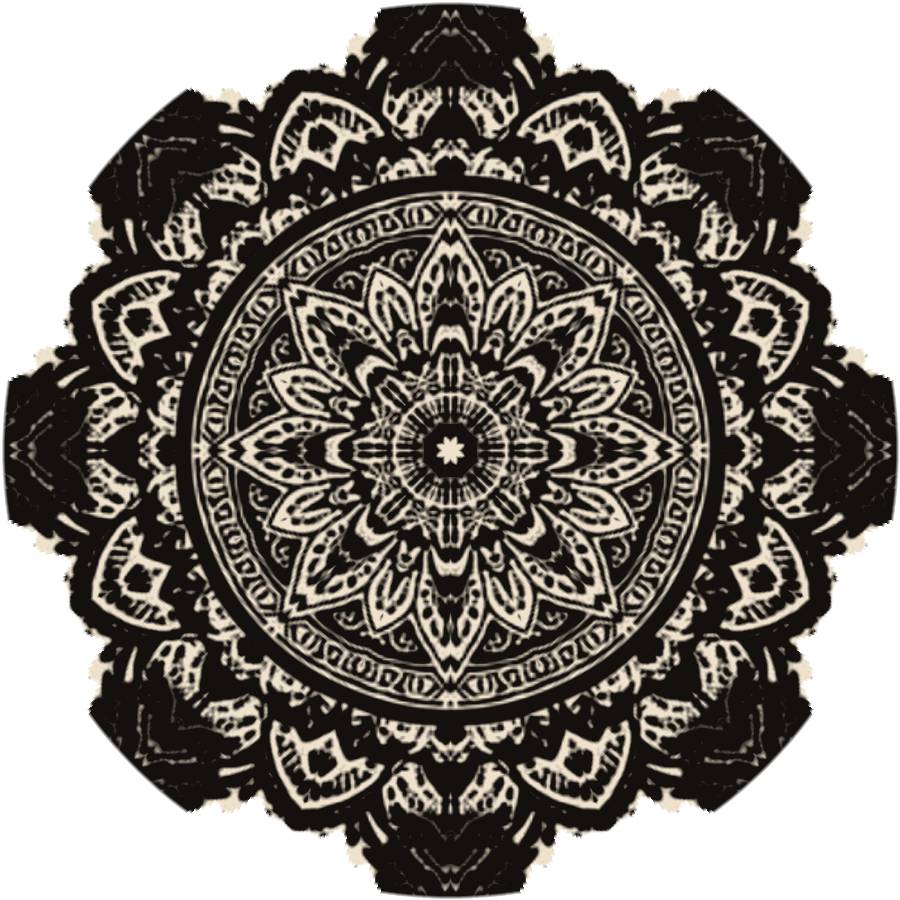
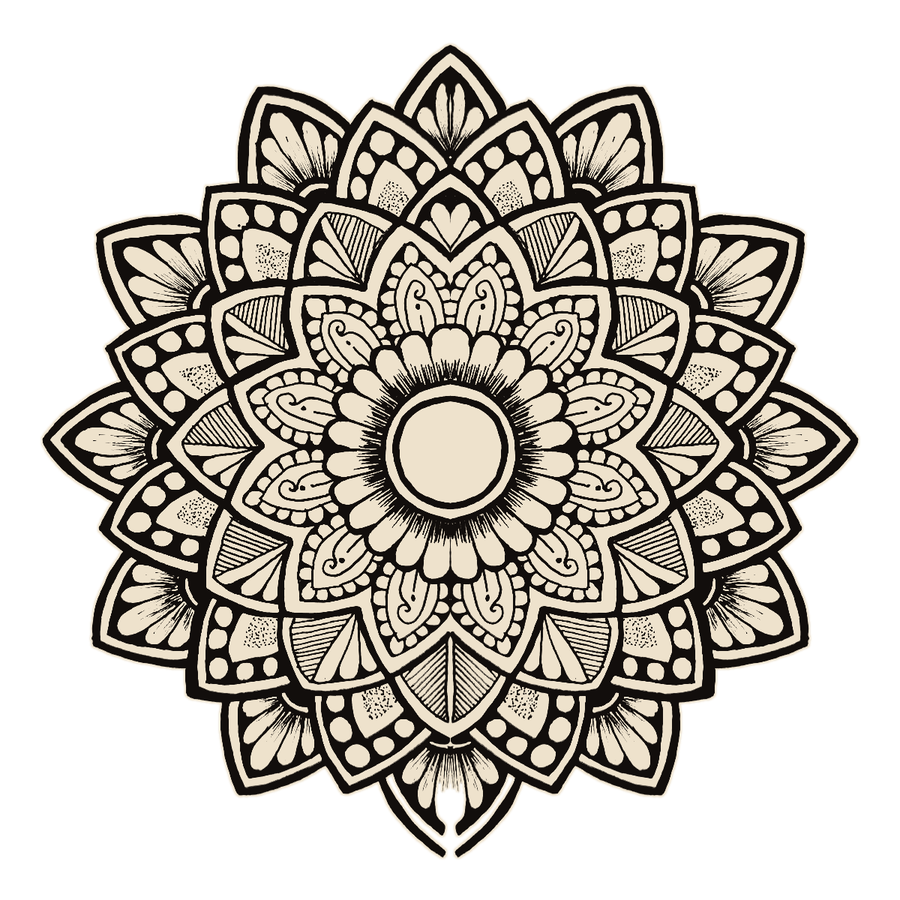
home page files added

diff --git a/index.html b/index.html
@@ -37,6 +37,7 @@
   .i-mandala{position:absolute;left:50%;top:50%;width:min(78vmin,640px);aspect-ratio:1;translate:-50% -50%;opacity:0;transform:scale(.15) rotate(-140deg);
     animation:bloom 1.1s 1.25s cubic-bezier(.16,1,.3,1) forwards,recede .8s 3.5s cubic-bezier(.6,0,.3,1) forwards}
   .i-mandala::before{content:"";position:absolute;inset:14%;border-radius:50%;background:radial-gradient(circle,#ff6a45 0,#e2412a 45%,rgba(226,65,42,0) 72%);filter:blur(30px);opacity:.75;animation:pulse 1.6s 1.3s ease-in-out infinite alternate}
+  .i-mandala::after{content:"";position:absolute;left:50%;top:50%;width:5.5%;aspect-ratio:1;translate:-50% -50%;border-radius:50%;background:#e2412a;box-shadow:0 0 18px 4px rgba(226,65,42,.8)}
   .i-mandala img{position:relative;width:100%;height:100%;animation:spin 40s linear infinite}
   @keyframes bloom{to{opacity:1;transform:scale(1) rotate(0deg)}}
   @keyframes recede{from{opacity:1;transform:scale(1)}to{opacity:.13;transform:scale(1.35)}}
@@ -118,13 +119,26 @@
   .hg-pulse path{fill:none;stroke:#ffc29e;stroke-width:2;stroke-linecap:round;animation:flow var(--dur) linear var(--delay) infinite}
   @keyframes flow{from{stroke-dashoffset:var(--from)}to{stroke-dashoffset:var(--to)}}
   .hg-core,.hg-door,.hg-beam{transform-box:fill-box;transform-origin:50% 100%}
-  .hg-core{animation:core 2.2s ease-in-out infinite alternate}
-  .hg-door{animation:door 2.2s ease-in-out infinite alternate}
-  .hg-beam{animation:beam 2.2s ease-in-out infinite alternate}
+  .hg-core{animation:core 4.4s ease-in-out infinite alternate}
+  .hg-door{animation:door 4.4s ease-in-out infinite alternate}
+  .hg-beam{animation:beam 4.4s ease-in-out infinite alternate}
   @keyframes core{from{opacity:.55;transform:scale(.85)}to{opacity:1;transform:scale(1.12)}}
   @keyframes door{from{opacity:.35}to{opacity:.9}}
   @keyframes beam{from{opacity:.15;transform:scaleY(.7)}to{opacity:.55;transform:scaleY(1)}}
   @media (prefers-reduced-motion:reduce){.hg-pulse path,.hg-core,.hg-door,.hg-beam{animation:none}}
+  /* 3D Konark chakra (replaces the painted wheel, bottom-left) */
+  .chakra{position:absolute;left:calc(63*var(--u));top:calc(211*var(--u));width:calc(204*var(--u));aspect-ratio:1;perspective:calc(650*var(--u));pointer-events:none}
+  .chakra::before{content:"";position:absolute;inset:3%;border-radius:50%;background:radial-gradient(circle,#0c0807 0 60%,rgba(12,8,7,.88) 68%,rgba(12,8,7,0) 75%)}
+  .chakra::after{content:"";position:absolute;inset:10%;border-radius:50%;box-shadow:0 0 calc(40*var(--u)) calc(6*var(--u)) rgba(226,65,42,.28);animation:chakraGlow 4.4s ease-in-out infinite alternate}
+  .chakra-tilt,.chakra-spin{position:absolute;inset:0;transform-style:preserve-3d}
+  .chakra-tilt{animation:chakraSway 9s ease-in-out infinite alternate}
+  .chakra-spin{animation:chakraTurn 28s linear infinite}
+  .chakra img{position:absolute;inset:0;width:100%;height:100%;backface-visibility:visible}
+  .chakra img.face{filter:drop-shadow(0 0 calc(5*var(--u)) rgba(255,120,80,.35))}
+  @keyframes chakraSway{from{transform:rotateY(-24deg) rotateX(8deg)}to{transform:rotateY(24deg) rotateX(-6deg)}}
+  @keyframes chakraTurn{to{transform:rotate(360deg)}}
+  @keyframes chakraGlow{from{opacity:.4}to{opacity:1}}
+  @media (prefers-reduced-motion:reduce){.chakra-tilt,.chakra-spin,.chakra::after{animation:none}}
   .side{position:absolute;top:calc(105*var(--u));color:#ece4d6;font-size:calc(12.5*var(--u));font-weight:500;letter-spacing:calc(.8*var(--u));line-height:1.85}
   .side.l{left:calc(95*var(--u))}
   .side.r{right:calc(80*var(--u));text-align:right}
@@ -192,6 +206,7 @@
     .tagline i{font-size:8px}
     .btn-enter{width:auto;height:auto;padding:13px 30px;margin-top:22px;font-size:13px;gap:8px;border-radius:5px}
     .side{display:none}
+    .chakra{display:none}
 
     .about{aspect-ratio:auto;container-type:normal;display:flex;flex-direction:column}
     .about-text{position:static;width:auto;padding:28px 16px 20px}
@@ -273,6 +288,7 @@
       <rect class="hg-door" x="641" y="345" width="24" height="25" rx="10" fill="#ffb38a"/>
       <ellipse class="hg-core" cx="653" cy="368" rx="78" ry="24" fill="url(#hgCore)"/>
     </svg>
+    <div class="chakra" aria-hidden="true"><div class="chakra-tilt"><div class="chakra-spin" id="chakraSpin"></div></div></div>
     <div class="side l fade d2">TWO DAYS<br>REAL PROBLEMS<br>BIGGER IDEAS</div>
     <div class="side r fade d2">ENGINEER<br>BUILD<br>EXHIBIT<br>BELONG</div>
     <div class="presents fade">KIIT ELECTRICAL SOCIETY<small>PRESENTS</small></div>
@@ -397,9 +413,22 @@
       pulse.style.strokeDasharray = `${seg} ${len + seg}`;
       pulse.style.setProperty('--from', seg);
       pulse.style.setProperty('--to', -len);
-      pulse.style.setProperty('--dur', (len / 260 + 1.2).toFixed(2) + 's');
-      pulse.style.setProperty('--delay', (-rnd() * 4).toFixed(2) + 's');
+      pulse.style.setProperty('--dur', (len / 130 + 1.2).toFixed(2) + 's');
+      pulse.style.setProperty('--delay', (-rnd() * 8).toFixed(2) + 's');
     });
+  })();
+
+  // ---------- Hero: 3D Konark chakra ----------
+  (function () {
+    const spin = document.getElementById('chakraSpin'); if (!spin) return;
+    const LAYERS = 12;                                   // more layers = thicker wheel
+    for (let i = LAYERS - 1; i >= 0; i--) {
+      const img = new Image(); img.src = 'assets/chakra.png'; img.alt = '';
+      img.style.transform = `translateZ(calc(${-i * 1.3} * var(--u)))`;
+      if (i === 0) img.className = 'face';
+      else img.style.filter = `brightness(${(.55 - i * .025).toFixed(2)}) saturate(.9)`;  // darker toward the back = carved edge
+      spin.appendChild(img);
+    }
   })();
 
   const links = document.querySelectorAll('.menu a');

diff --git a/README.md b/README.md
@@ -11,9 +11,10 @@ It's a static site made of one HTML file and a folder of images. It has no build
 
 - **Animated intro**
   - Two circuit lines race in from the screen edges and meet in the centre with a spark.
-  - A full mandala blooms out of that point and turns slowly.
+  - A full hand-drawn mandala (with a glowing red core) blooms out of that point and turns slowly.
   - The event name powers on with a flicker, then the screen opens like doors onto the site.
-- **Hero banner** with the original artwork: temple pillars, Konark wheel, campus gate, sunset and the red circuit road.
+- **Hero banner** with the original artwork: temple pillars, campus gate, sunset and the red circuit road.
+- **3D Konark chakra** in the bottom-left of the hero: a cut-out photo of the Konark Sun Temple wheel, stacked in layers so it has real thickness, turning slowly on its axle and tilting so the carved edge shows. Hidden on phones. Change `LAYERS` in the `/* Hero: 3D Konark chakra */` script for a thicker or thinner wheel, and `chakraTurn` / `chakraSway` in the CSS for its speed.
 - **Glowing circuit lines** on the hero: light pulses travel along the road lines and side circuit traces, all converging on the centre of the campus gate, which glows and pulses. The lines are built by script in the `/* Hero: glowing lines converging on the gate */` block. Change `VX, VY` to move the meeting point, or edit the trace list to add or remove lines.
 - **"What is KAOS?"** section with the mandala, circuit and temple artwork.
 - **Event cards** for Day 1 (Engineering Challenge), Day 2 (Project Expo) and Prizes (₹20,000).
@@ -38,7 +39,8 @@ kaos-of-circuit-2.0/
     ├── kaos-logo.png        # KAOS logo (blended onto the cream hero with mix-blend-mode: multiply)
     ├── kaos-logo-light.png  # Transparent light version of the logo, used in the dark intro
     ├── nav-logo.png         # Small logo in the navigation bar
-    ├── mandala.png          # Full transparent mandala, used in the intro
+    ├── mandala.png          # Full mandala (mirrored from a hand-drawn half), used in the intro
+    ├── chakra.png           # Konark wheel cut out of a photo (gaps between the spokes are transparent)
     ├── about-art.jpg        # Mandala, circuit and temple artwork for the About section
     ├── card-pcb.jpg         # Day 1 card illustration
     ├── card-expo.jpg        # Day 2 card illustration
@@ -142,7 +144,7 @@ To swap in new artwork, replace a file in `assets/` with one of the same name an
 ## Notes
 
 - The artwork was taken from a single design mockup that is 1292 px wide. It looks sharp at normal laptop widths and slightly soft on very large screens. Replacing the files in `assets/` with high-resolution originals fixes this.
-- `mandala.png` was rebuilt from the half-mandala in the mockup. One clean slice was mirrored around the circle, using the design's 8-fold symmetry.
+- `mandala.png` was made by mirroring a hand-drawn half mandala into a full circle. `chakra.png` was cut out of a photo of the Konark Sun Temple wheel. If those source images came from Pinterest or another site, check their licences before publishing.
 - Works in all current browsers: Chrome, Edge, Firefox and Safari. It uses CSS container query units (`cqw`), supported since 2023.
 
 ---
